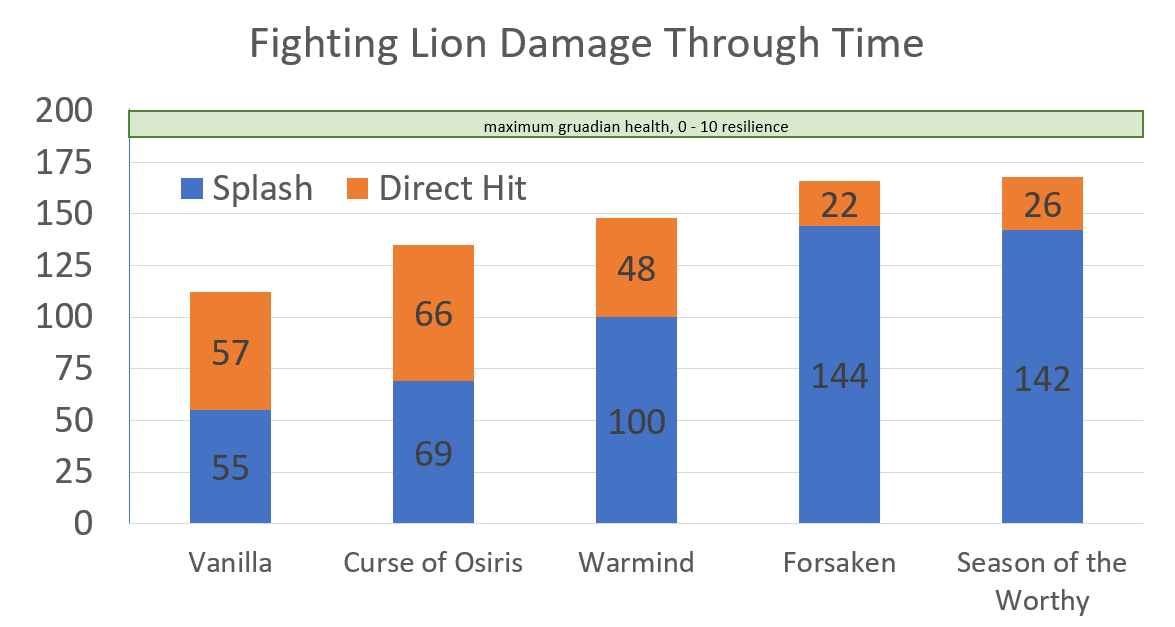
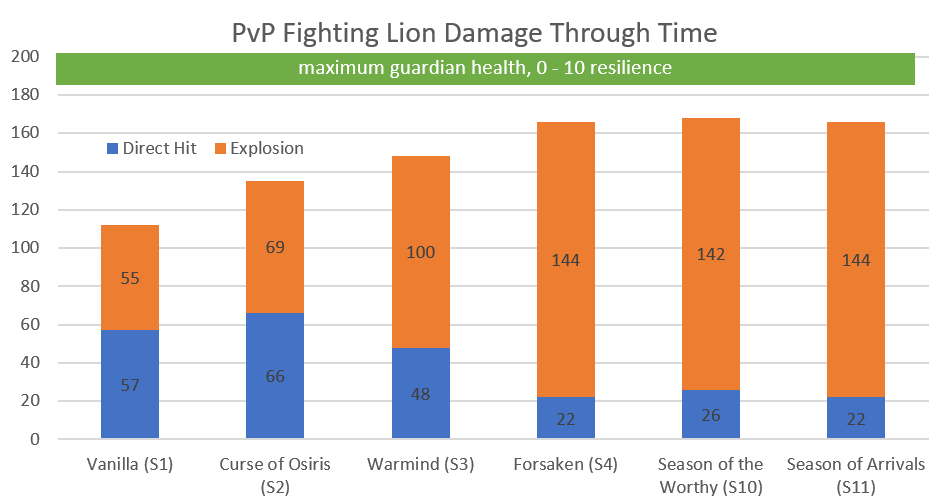
Arrivals Update

diff --git a/_pages/armor.md b/_pages/armor.md
@@ -12,6 +12,22 @@ sidebar:
     image_alt: "Fighting Lion"
     text: "An exotic grenade launcher in Destiny 2"
     nav: "docs"
+
+feature_row:
+  - image_path: /assets/images/delayed_grat.png
+    alt: "Blast Radius"
+    title: "Blast Radius"
+    excerpt: " 	Become Charged with Light by rapidly defeating multiple enemies with Grenade Launchers or Rocket Launchers.
+    This mod's effects stack with other copies of this mod."
+  - image_path: /assets/images/high_energy_fire.png
+    alt: "High Energy Fire"
+    title: "High Energy Fire"
+    excerpt: "While Charged with Light, gain a bonus to weapon damage. Each defeated enemy consumes one stack of Charged with Light."
+  - image_path: /assets/images/stacks_on_stacks.png
+    alt: "Stacks on Stacks"
+    title: "Stacks on Stacks"
+    excerpt: "The player character gains an extra stack of Charged with Light for every stack they gain.
+    This mod decreases the player's recovery by 10."
 ---
 
 [Here is a breakdown](https://i.imgur.com/hixbrKA.jpg) of which mods are available in which slot and which elemental affinity.
@@ -64,24 +80,26 @@ Two things determine how ammo will work for your lion:
 
 | Mod           	| Ammo Brick | Kill Brick |
 |:---------------	|	-------:	|------------:	|
-| None          	| 3 / 6 | 10 / 20 |
-| 1x GL Reserves  	| 3 / 7 | 11 / 22 |
-| 2x GL  Reserves  	| 3 / 8 |  12 / 24 |
+| None          	| 4 / 8 | 13 / 26 |
+| 1x GL Reserves  	| 4 / 9 | 14 / 28 |
+| 2x GL  Reserves  	| 4 / 9 |  15 / 30 |
 
 
 | Mod           	| Spawn 	| Max 	|
 |:---------------	|-------:	|-----:	|
-| None          	| 10*    	| 20    	|
-| One Reserves  	| 10*    	|  22   	|
-| Two Reserves  	| 10*    	|  24   	|
+| None          	| 10*    	| 26    	|
+| 1x GL Reserves  	| 10*    	|  28   	|
+| 2x GL Reserves  	| 10*    	|  30   	|
 
  (* somewhat random, I've spawned with 10,11 or 12)
 
+How Scavenger Mods interact with Reserve Mods:
+
 |  Mod         	| none 	| 1x Reserves 	| 2x Reserves 	|
 |:--------------	|------:	|-------------:	|-------------:	|
-| none         	| 7    	| 7           	| 7           	|
-| 1x Scavenger 	| 7    	| 8           	| 9           	|
-| 2x Scavenger 	| 7    	| 9           	| 9           	|
+| none         	| 8    	| 8           	| 8           	|
+| 1x Scavenger 	| 8    	| 9           	| 9           	|
+| 2x Scavenger 	| 8    	| 9           	| 9           	|
 
 **Notes:**
 - Heavy Ammo bricks and Heavy Ammo Crucible Spawns do _not_ give Lion ammo.
@@ -100,7 +118,7 @@ Also, it stacks.
 ![stacks](https://cdn.discordapp.com/attachments/647452715441717248/654820665467338752/unknown.png)
 > Tested with a Tier 1 combatant in the Tribute Hall. The enemy kill was at 50%.
 
-Eyeballing, but 2.5% with 1 mod, 5% with 2x mods.
+Eyeballing it here, but 2.5% with 1 mod, 5% with 2x mods.
 
 It works in Crucible too:
 ![super mods](/assets/images/supermods.png)
@@ -112,7 +130,7 @@ It works in Crucible too:
 - **Traction**
   - Fighting Lion is a mobility based weapon, so having the +10 mobility and increased turn speed is a real asset.
 
-## Mods to avoid:
+## Mods to avoid in PvP:
 
 - Ammo Finder
   - Fighting Lion's exotic perk provides Primary ammo on kill, so this is unnecessary.
@@ -167,12 +185,36 @@ It works in Crucible too:
 - Dire Artillery x2 (3 energy x2)
 - Stat Perk such as Mobility, Recovery, etc. (3-4 energy)
 
-## Charged with Light Build
-Courtesy of **SunSun**
+## Charged with Light Build (CwL)
 
-- 1x High Energy Fire, 1x Protective Light, and either 2x Blast Radius (double solar) or 1x Blast Radius, 1x Stacks on Stacks (one solar, one void for GL affinity)
-- In total requires 4 pieces of armor, leaving your Exotic open, and only requires one or two solar so you can spec GLs
-- I typically go GL loader gauntlets with High Energy Fire, double Dire Artillery class item with Protective Light, and solar chest and boots for Blast Radius, leaving my helmet on Warlock for Nezarec's Sin, which cannot take a Seasonal mod.
+Charged with Light is a really strong system that synergizes well with Lion. Unfortunately, it's a bit obtuse.
+
+Every CwL build has needs a builder to get charges, a spender to get the benefit and _can_ have modifiers that give extra stacks or share charges with allies.
+- Builder (Green icon)
+- Spender (Yellow icon)
+- Modifier (White icon)
+
+**Standard Build**
+The Standard build is all about getting the 20% damage boost from **High Energy Fire** and keeping it up at all times.
+
+{% include feature_row %}
+
+A solid 4th choice is **Protective Light** (2 void)
+> When the player character is Charged with Light, they gain significant damage resistance when their shields are destroyed, consuming all stacks of Charged with Light. The more stacks consumed, the longer the damage resistance lasts.
+
+**Empowering Build:**
+Empowering builds instead of keeping 1-2 stacks, instead works to build a higher cap of Charges to empower a specific spender.
+
+* Charger: Blast Radius  (3 Solar)
+* Raise charge cap: Supercharged (5 Solar)
+* Bonus Damage Spenders:
+    - Swords (Lucent Blade - 4 Arc)
+    - Sidearms (Surprise Attack - 5 Solar)
+    - Super (Energy Converter - 4 Void)
+
+So in summary, you always have Blast Radius & Protective Light. For Lion focused neutral game: Stacks on Stacks with High Energy Fire. For any other build, it's raising the charge cap with Supercharged and then specific mod you want (sword, sidearm, super).
+
+For a full in-depth discussion, [check out this **Charged with Light Guide** from SunSun](https://www.reddit.com/r/FightingLion/comments/hb7gdo/revisiting_charged_with_light/?utm_source=share&utm_medium=web2x).
 
 ## Stats
 

diff --git a/_pages/damage.md b/_pages/damage.md
@@ -24,9 +24,9 @@ As tested in the Tribute Hall.
 
 |Stat       	|No Shield  	| Void        | Arc   	| Solar   	|
 |---	        |---	        |---	       |---	|---	|
-|Raw Damage	  | 10,365 + 1,899  	| 14,602 + 7,091 + 3,435  	| 10,365 + 2,364  	| 14,725 + 4,728   	|
-|Total Damage |12,264   	| 25,128  	| 12,729   	| 19,453   	|
-|% Change   	| _(base)_  	| 205%  	| 104%   	| 158%   	|
+|Raw Damage	  | 10,995 + 1,676  	| 16,661 + 6,258 + 3,447  	| 10,995 + 2,086  	| 16,287 + 4,172   	|
+|Total Damage |12,671   	| 26,366  	| 13,081  	| 20,459   	|
+|% Change   	| _(base)_  	| 208%  	| 103%   	| 161%   	|
 
 As you can see, Arc bonus damage is busted.
 
@@ -34,8 +34,8 @@ As you can see, Arc bonus damage is busted.
 
 | Stat  	| Minor  	| Major  	| Boss   	|
 |---	|---	|---	|---	|
-| Raw  	| 15,544+2373   	|10,883+1,994   	| 10,365 + 1,899  	|
-| Total  	|17,917   	|12,877   	| 12,264    	|
+| Raw  	| 16,387+2,095   	|11,545+1,760   	| 10,995 + 1,676  	|
+| Total  	|18,482   	|14,954   	| 12,761    	|
 | % Change  	| _(base)_  	| 72%  	| 68%  	|
 
 ### Sustained DPS

diff --git a/_pages/patch_notes.md b/_pages/patch_notes.md
@@ -22,11 +22,25 @@ sidebar:
 
 ## Patch notes:
 
+[Update 2.9.0](https://www.bungie.net/en/Explore/Detail/News/49188) _Season of Arrivals (11) patch_
+
+- No explicit patch notes.
+
+> Reserve ammo increased.
+> PvE damage adjusted:
+    - Explosion damage: 105%
+    - Impact damage: 88%
+    - Overall change: 103%
+> PvP damage change from Season of Worth reverted
+    - Explosion damage: 144 from 142
+    - Impact damage: 22 from 26
+    - Overall change: 166 from 168
+
 [Update 2.8.1](https://www.bungie.net/en/News/Article/48959) - _Guardian Games patch_
 
 - Fixed an issue with Breech Loaded (Special ammo) Grenade Launchers that resulted in them having a significantly reduced blast radius.
 
-[Update 2.8.0](https://www.bungie.net/en/Explore/Detail/News/48838) - _Season of the Worthy patch_
+[Update 2.8.0](https://www.bungie.net/en/Explore/Detail/News/48838) - _Season of the Worthy (10) patch_
 
 - Due to backend changes with the grenade launcher archetype, Fighting Lion inherited minor adjustments
 - Rate of Fire increased from 72 RPM to 90 RPM
